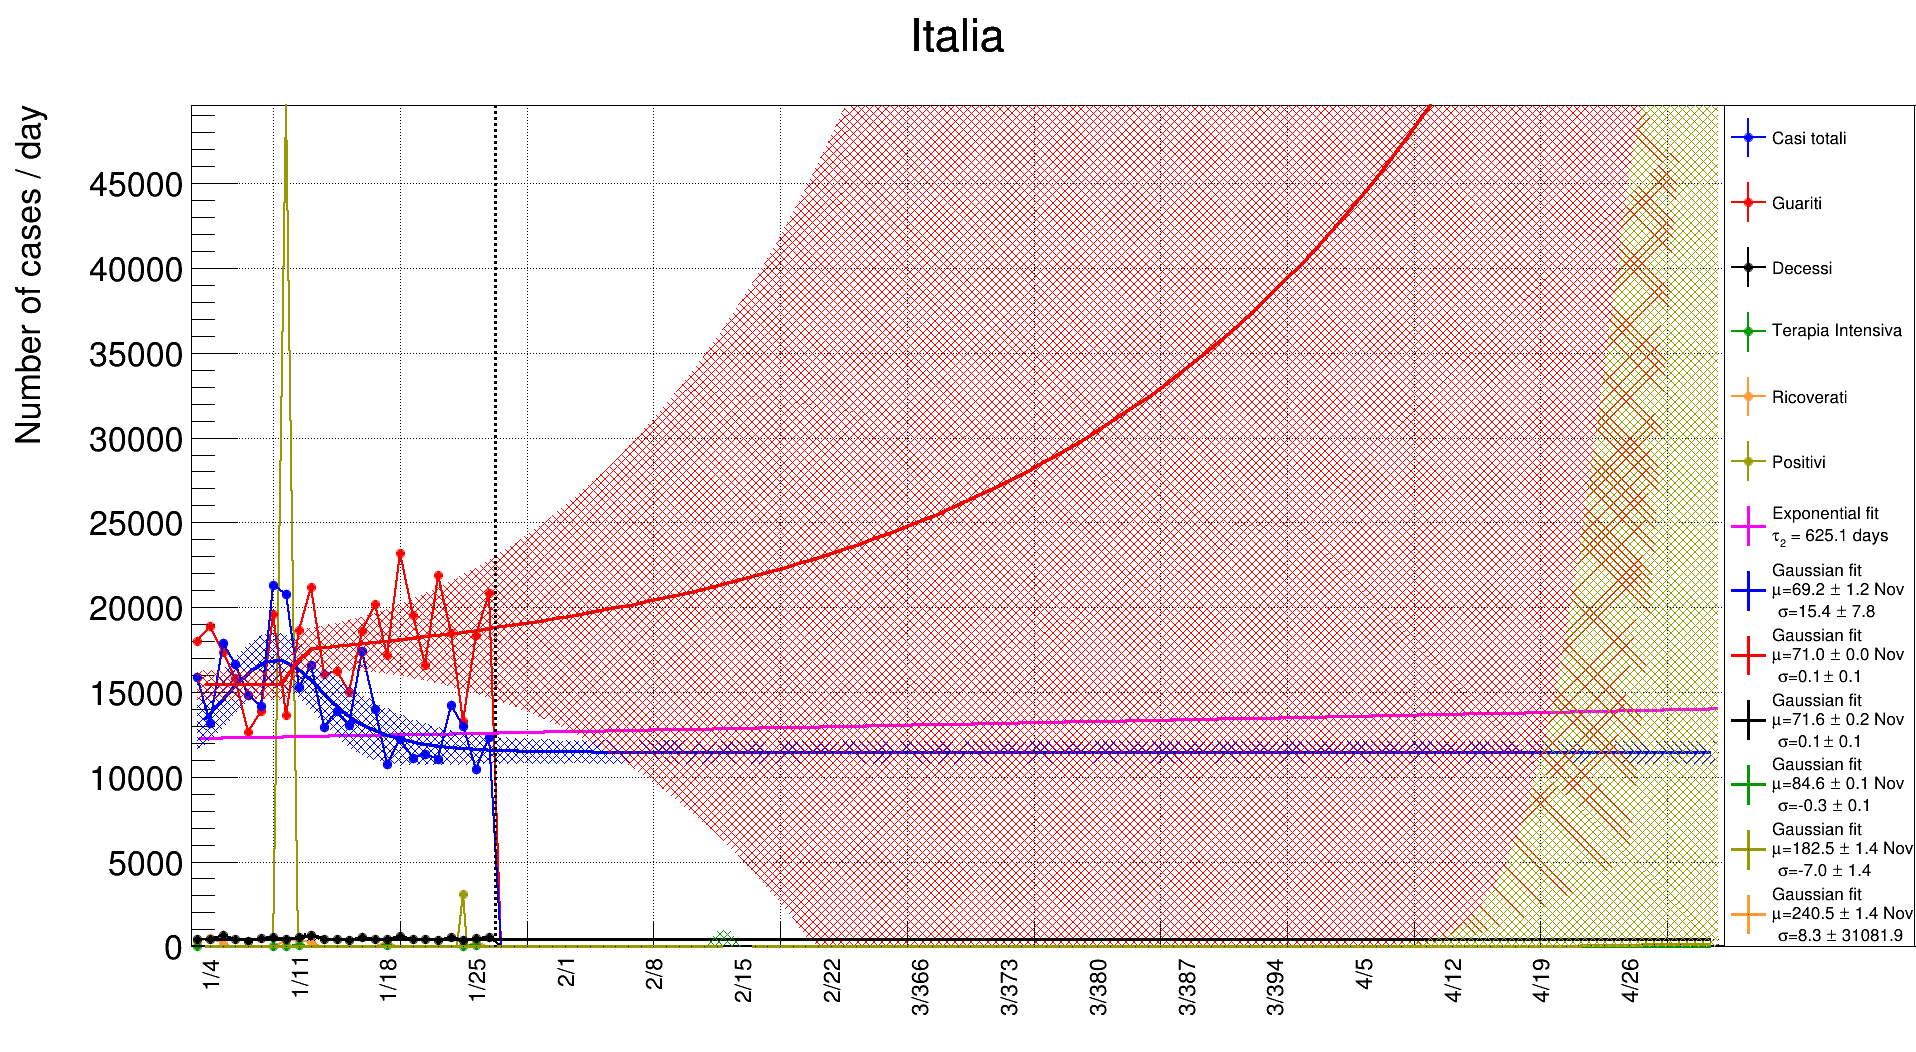
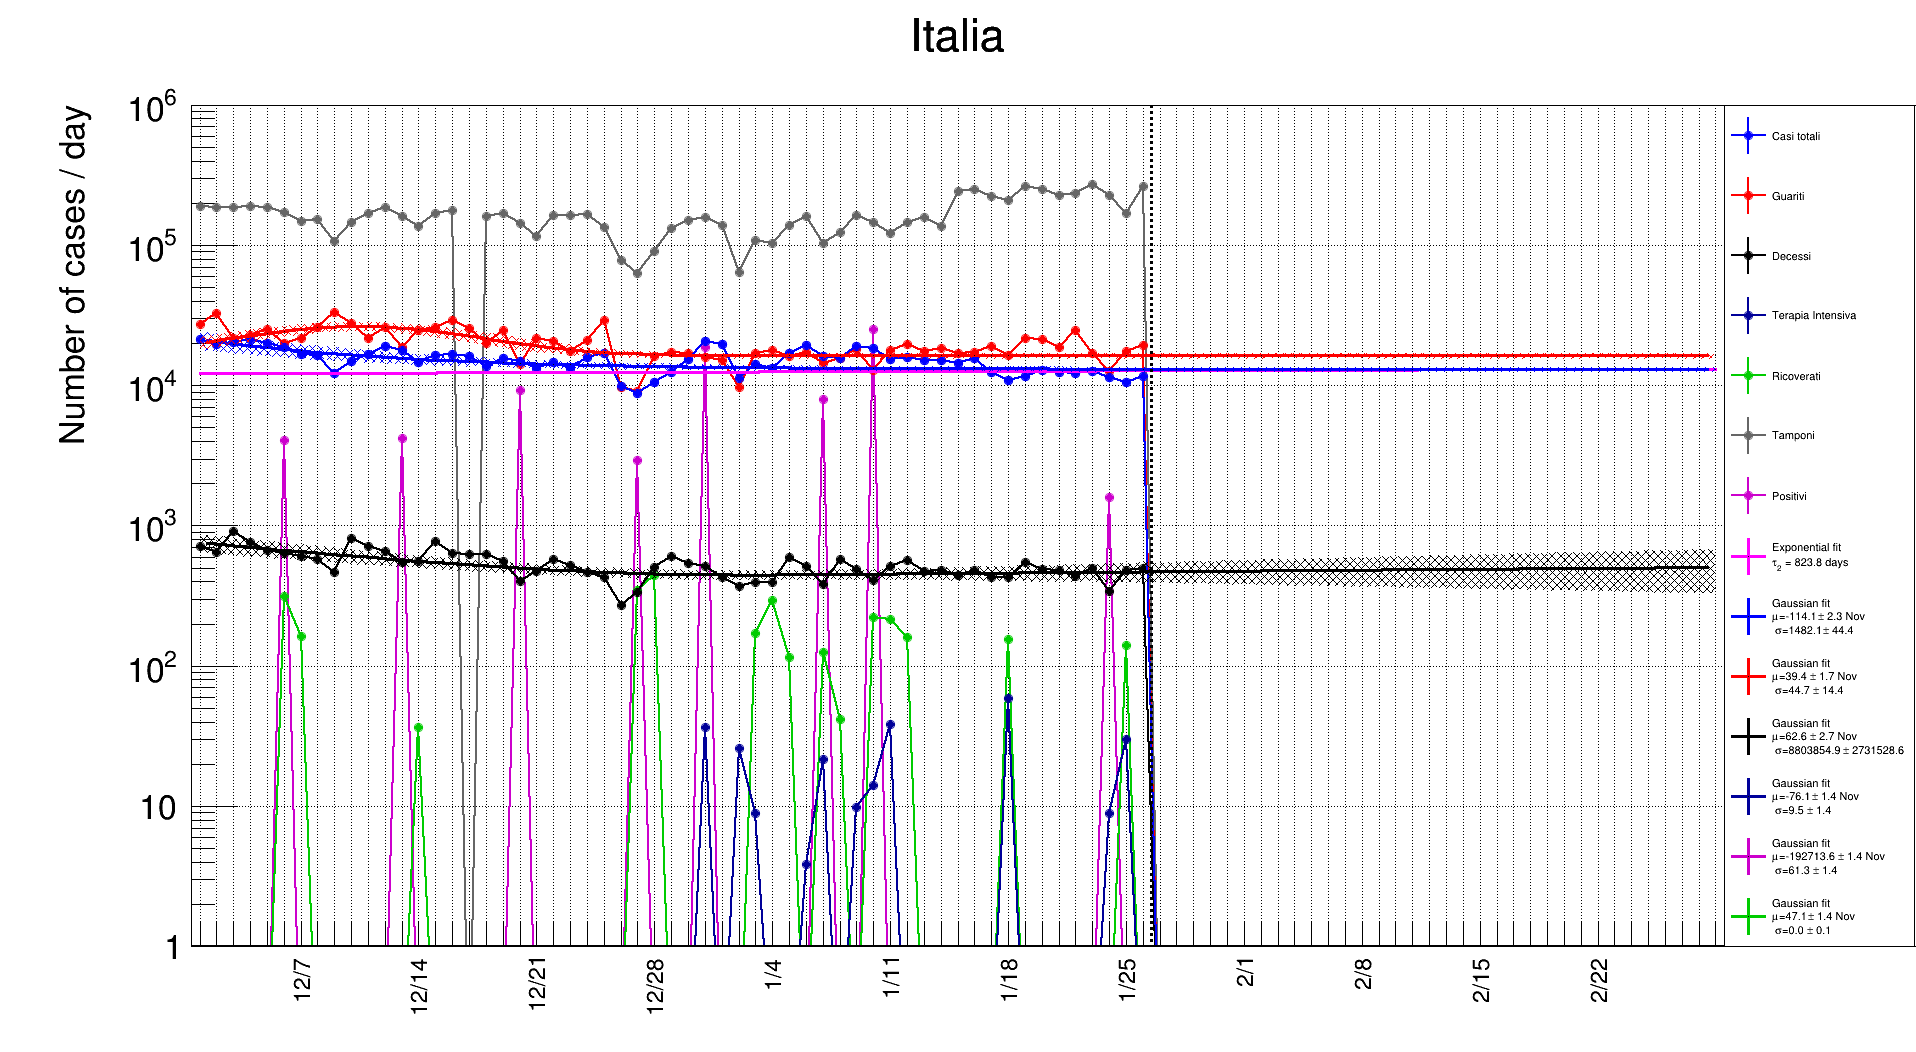
Jan26

Changed region(s): [[0.0, 0.0913, 1.0, 0.943], [0.0308, 0.73, 0.0924, 0.8517], [0.3079, 0.2433, 0.3387, 0.2738]]

diff --git a/tools.py b/tools.py
@@ -34,8 +34,8 @@ scuola24=[
 "Sardegna",
 ]
 
-useLog = False
-#useLog = True
+#useLog = False
+useLog = True
 fixSigma = 8
 #maxPar3 = 1E4
 maxPar3 = 1
@@ -59,7 +59,7 @@ ROOT.kRed,
 ROOT.kMagenta,
 ROOT.kBlue,
 ROOT.kCyan+1,
-ROOT.kGreen+1,
+ROOT.kGray+1,
 
 ROOT.kOrange,
 ROOT.kPink,
@@ -86,35 +86,45 @@ maps = {
 
 #maps["Centro e Sud"] = maps["Centro"] + maps["Sud"]
 
+positivi    = ROOT.kMagenta+1
+contagiati  = ROOT.kBlue
+ricoverati  = ROOT.kGreen+1
+guariti     = ROOT.kRed
+intensiva   = ROOT.kBlue+2
+test        = ROOT.kGray+2
+decessi     = ROOT.kBlack
+storico     = ROOT.kMagenta
+prediction  = ROOT.kMagenta+2
+istat       = ROOT.kMagenta+1
+funcExp     = ROOT.kMagenta
 colorMap = {
-    "positives":  ROOT.kYellow+2,
-    "histo_confirmes":  ROOT.kBlue,
-    "recoveres":  ROOT.kRed,
-    "deaths":     ROOT.kBlack,
-    "newConfirmes":   ROOT.kBlue,
-    "newRecoveres":   ROOT.kRed,
-    "newDeaths":      ROOT.kBlack,
-    "storico":        ROOT.kMagenta,
-    "prediction":      ROOT.kMagenta+2,
-    "functionExp":      ROOT.kMagenta,
-    "functionExp_newConfirmes":      ROOT.kMagenta,
-    "functionExp_confirmes":      ROOT.kMagenta,
-    "intensiva":      ROOT.kGreen+2,
-    "ricoverati":      ROOT.kOrange+1,
-    "test":      ROOT.kGray+2,
-    "newIntensiva":      ROOT.kGreen+2,
-    "newRicoverati":      ROOT.kOrange+1,
-    "newTest":      ROOT.kGray+2,
-    "Decessi":      ROOT.kBlack,
-    "decessi":      ROOT.kBlack,
-    "ISTAT":        ROOT.kMagenta+1,
-#    "storico":      ROOT.kBlack,
-    "predictionConfirmes":   ROOT.kBlue,
-    "predictionRecoveres":   ROOT.kRed,
-    "predictionDeaths":      ROOT.kBlack,
-    "predictionIntensiva":      ROOT.kGreen+2,
-    "predictionRicoverati":      ROOT.kOrange+1,
-    "predictionTest":      ROOT.kGray+2,
+    "positives": positivi ,
+    "histo_confirmes": contagiati ,
+    "recoveres":  guariti,
+    "deaths":     decessi,
+    "newConfirmes":   contagiati,
+    "newRecoveres":   guariti,
+    "newDeaths":      decessi,
+    "storico":        storico,
+    "prediction":      prediction,
+    "functionExp":      funcExp,
+    "functionExp_newConfirmes":      funcExp,
+    "functionExp_confirmes":      funcExp,
+    "intensiva":      intensiva,
+    "ricoverati":      ricoverati,
+    "test":      test,
+    "newIntensiva":      intensiva,
+    "newRicoverati":      ricoverati,
+    "newTest":      test,
+    "Decessi":      decessi,
+    "decessi":      decessi,
+    "ISTAT":        istat,
+    "predictionConfirmes":   contagiati,
+    "predictionRecoveres":   guariti,
+    "predictionDeaths":      decessi,
+    "predictionIntensiva":      intensiva,
+    "predictionRicoverati":      ricoverati,
+    "predictionTest":      test,
 }
 
 labelMap = {
@@ -392,7 +402,7 @@ def getColumn(dataRegioni_, label, scaleFactor=1):
             if not place in data: data[place] = {}
             for date in dataRegioni_[regione]:
                 if not date in data[place]: data[place][date] = 0
-                data[place][date] += int(dataRegioni_[regione][date][label]*scaleFactor)
+                data[place][date] += int(dataRegioni_[regione][date][label])*scaleFactor
     return data
 
 def newCases(cases, dates):
@@ -1006,10 +1016,8 @@ def extendDates(dates, nextend):
             newDate = "1/%d/21"%(i-306)
         elif i>337 and i<=365:
             newDate = "2/%d/21"%(i-337)
-#        elif i>365 and i<=396:
-#            newDate = "3/%d/21"%i
         elif i>0+offset and i<=31+offset:
-            newDate = "3/%d/21"%i
+            newDate = "3/%d/21"%(i-offset)
         elif i>31+offset and i<=61+offset:
             newDate = "4/%d/21"%(i-31-offset)
         elif i>61+offset and i<=92+offset:
@@ -1107,13 +1115,13 @@ def saveCSV(predictions, places, dates, fn_predictions, fn_predictions_error):
 #        histoTerapiaIntensiva.SetLineStyle(1)
 #        histoTerapiaIntensiva.Draw("HIST,PL,same")
 #    if histoRicoverati: 
-#        histoRicoverati.SetLineColor(ROOT.kOrange+1)
-##        histoRicoverati.SetFillColor(ROOT.kOrange+1)
+#        histoRicoverati.SetLineColor(ROOT.kGreen+1)
+##        histoRicoverati.SetFillColor(ROOT.kGreen+1)
 #        histoRicoverati.SetLineStyle(1)
 #        histoRicoverati.Draw("HIST,PL,same")
 #    if histoTamponi: 
-#        histoTamponi.SetLineColor(ROOT.kGray+2)
-##        histoTamponi.SetFillColor(ROOT.kGray+2)
+#        histoTamponi.SetLineColor(ROOT.kGreen+3)
+##        histoTamponi.SetFillColor(ROOT.kGreen+3)
 #        histoTamponi.SetLineStyle(1)
 #        histoTamponi.Draw("HIST,PL,same")
 #    line = ROOT.TLine(xpred+0.5,0,xpred+0.5,histoConfirmed.GetMaximum())
@@ -1163,16 +1171,21 @@ def savePlotNew(histos, functions, fName, xpred, dates, canvas, ISTAT=False):
     canvas.SetTitle("")
     leg = ROOT.TLegend(0.9,0.1,1.0,0.9)
     maxim = 0
+    minim = 1E9
     for histo in histos:
         maxim = max(maxim, histo.GetMaximum())
+        minim = min(minim, histo.GetMinimum())
+        maxim = min(maxim,1E7)
         if not "prediction" in histo.GetName():
             leg.AddEntry(histo, getLabel(histo.GetName()), "lep")
         if not "ISTAT" in histo.GetName(): histo.SetLineColor(getColor(histo.GetName()))
 #        histo.SetFillColor(getColor(histo.GetName()))
         histo.SetLineStyle(1)
     
+    if useLog: minim=max(1,minim)
+    
     for function in functions:
-        function.SetMinimum(1)
+        function.SetMinimum(minim)
         if not "ISTAT" in histo.GetName(): function.SetLineColor(getColor(function.GetName()))
 #        function.SetFillStyle(0)
         function.SetFillColor(function.GetLineColor())
@@ -1196,6 +1209,7 @@ def savePlotNew(histos, functions, fName, xpred, dates, canvas, ISTAT=False):
     line.SetLineWidth(3)
     histo
     histos[0].SetMaximum(maxim)
+    histos[0].SetMinimum(minim)
     histos[0].Draw("")
     for i, histo in enumerate(reversed(histos+[histos[0]])):
         if i == 0: same = ""

diff --git a/scriptItaly.py b/scriptItaly.py
@@ -3,6 +3,7 @@
 #import copy
 from tools import colors, fillDataRegioni, fillDataISTATpickle, newCases, getRatio, makeHistos, fitErf, fitGauss, fitGaussAsymmetric, fitExp, extendDates, saveCSV, savePlotNew, getPrediction, getPredictionErf, getColumn, selectComuniDatesAgeGender, makeCompatible, fitLinear, fitTwoExp, fitExpGauss, applyScaleFactors, useLog, positiveHisto, fitTwoGaussDiff, fitGaussExp
 
+
 placesTest = []
 #placesTest = ["Italia","LaSpezia"]
 placesTest = ["Italia"]
@@ -40,7 +41,7 @@ if (doProvince): dataProvince, dates = fillDataRegioni('dataItaly/dati-province/
 
 #data,stato,codice_regione,denominazione_regione,lat,long,ricoverati_con_sintomi,terapia_intensiva,totale_ospedalizzati,isolamento_domiciliare,totale_attualmente_Positive,nuovi_attualmente_Positive,dimessi_guariti,deceduti,totale_casi,tamponi
 
-tests = getColumn(dataRegioni, "tamponi")
+tests = getColumn(dataRegioni, "tamponi", )
 intensivas = getColumn(dataRegioni, "terapia_intensiva")
 ricoveratis = getColumn(dataRegioni, "ricoverati_con_sintomi")
 confirmes = getColumn(dataRegioni, "totale_casi")
@@ -61,10 +62,10 @@ firstDate = 0
 #firstDate = dates.index("6/1/20")
 #firstDate = dates.index("5/15/20")
 #firstDate = dates.index("5/15/20")
-#firstDate = dates.index("9/1/20")
+firstDate = dates.index("12/1/20")
 #firstDate = dates.index("12/30/20")
 #firstDate = dates.index("12/31/20")
-firstDate = dates.index("1/3/21")
+#firstDate = dates.index("1/3/21")
 #firstDate = dates.index("4/1/20")
 #firstDate = 16
 lastDate = lastDateData - 1
@@ -72,7 +73,7 @@ lastDate = lastDateData - 1
 #lastDate = dates.index("3/1/20")
 #lastDate = 30
 #predictionsDate = dates.index("12/31/20")
-predictionsDate = dates.index("5/3/21")
+predictionsDate = dates.index("3/1/21")
 #predictionsDate = 95
 
 #firstDate = dates.index("3/1/20")
